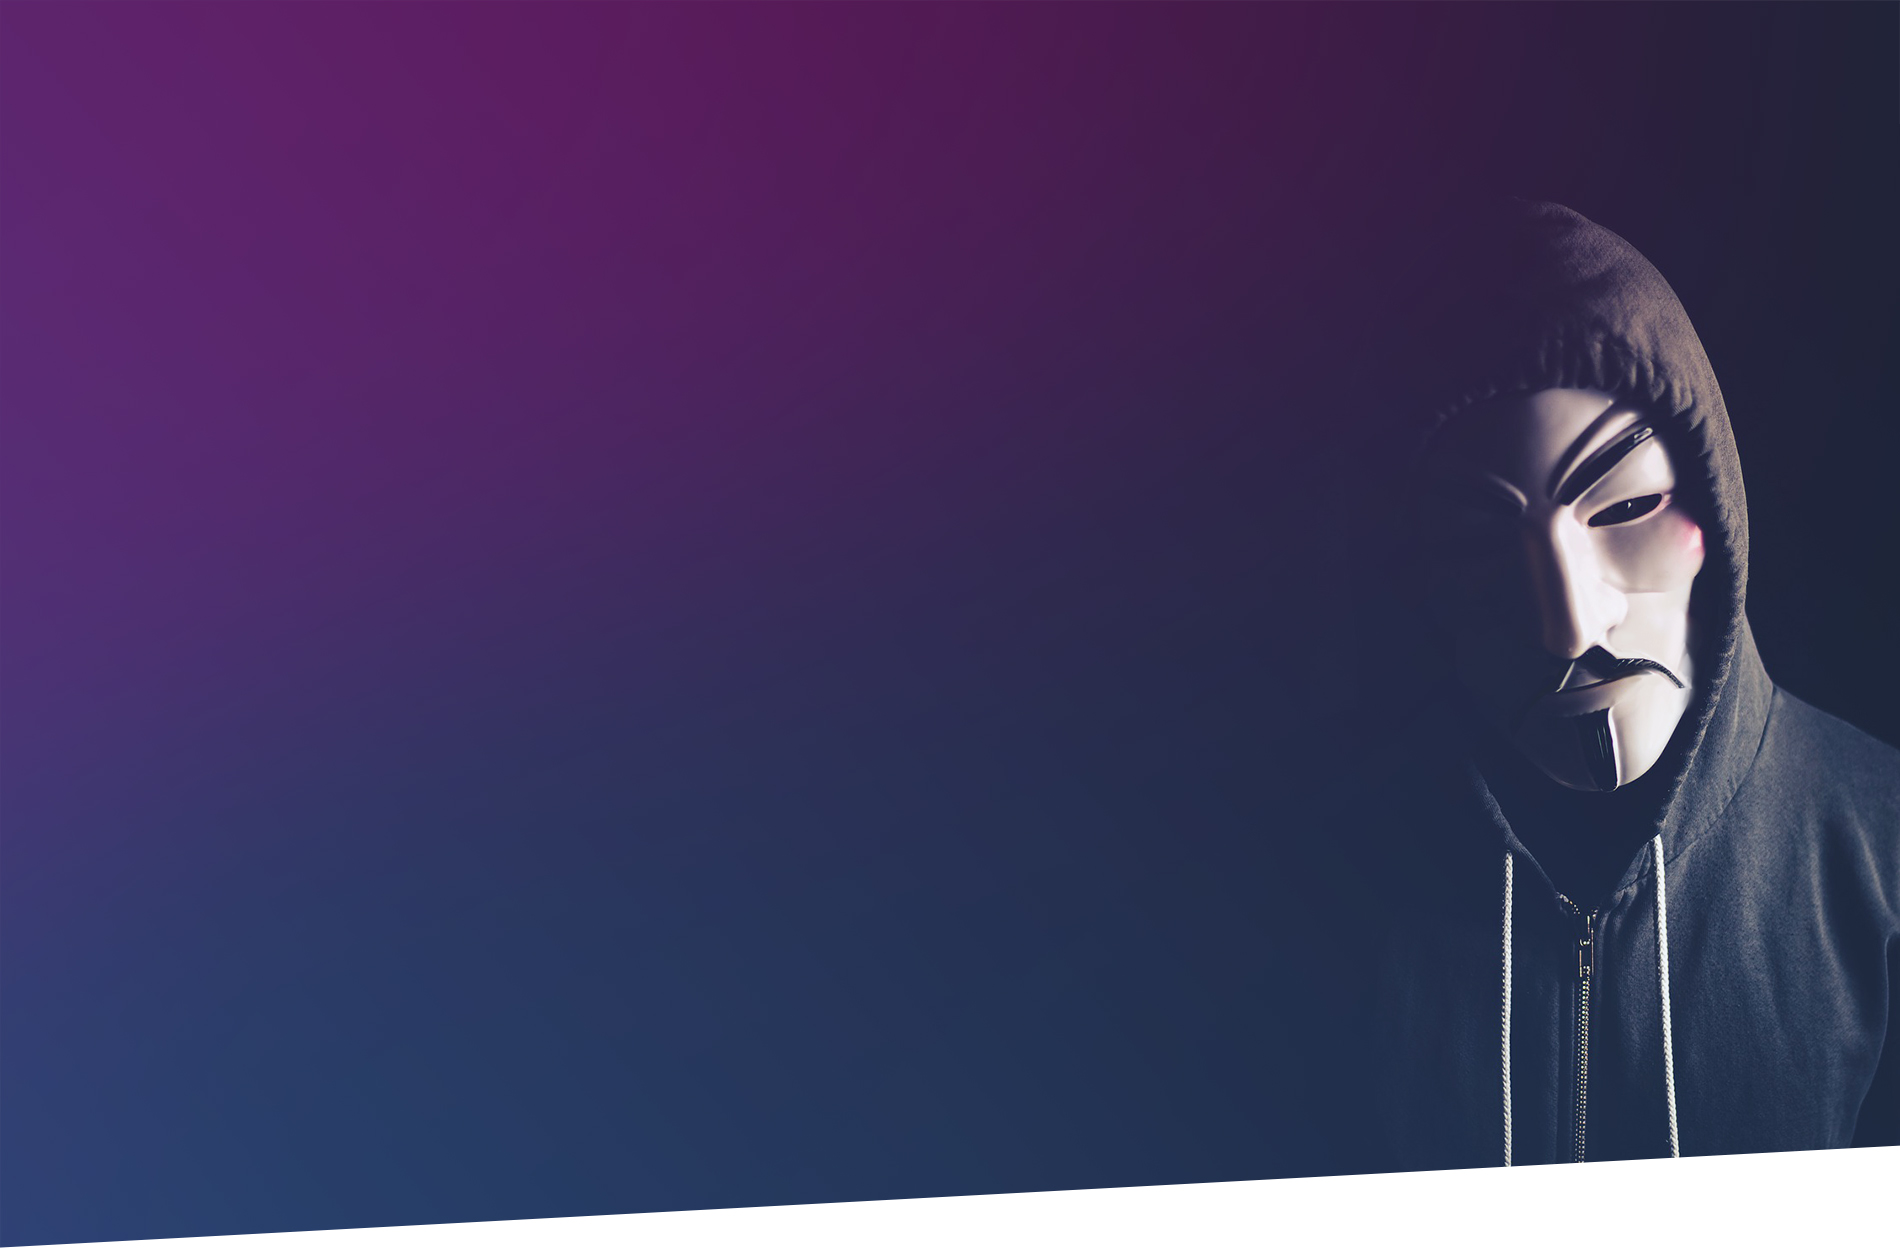
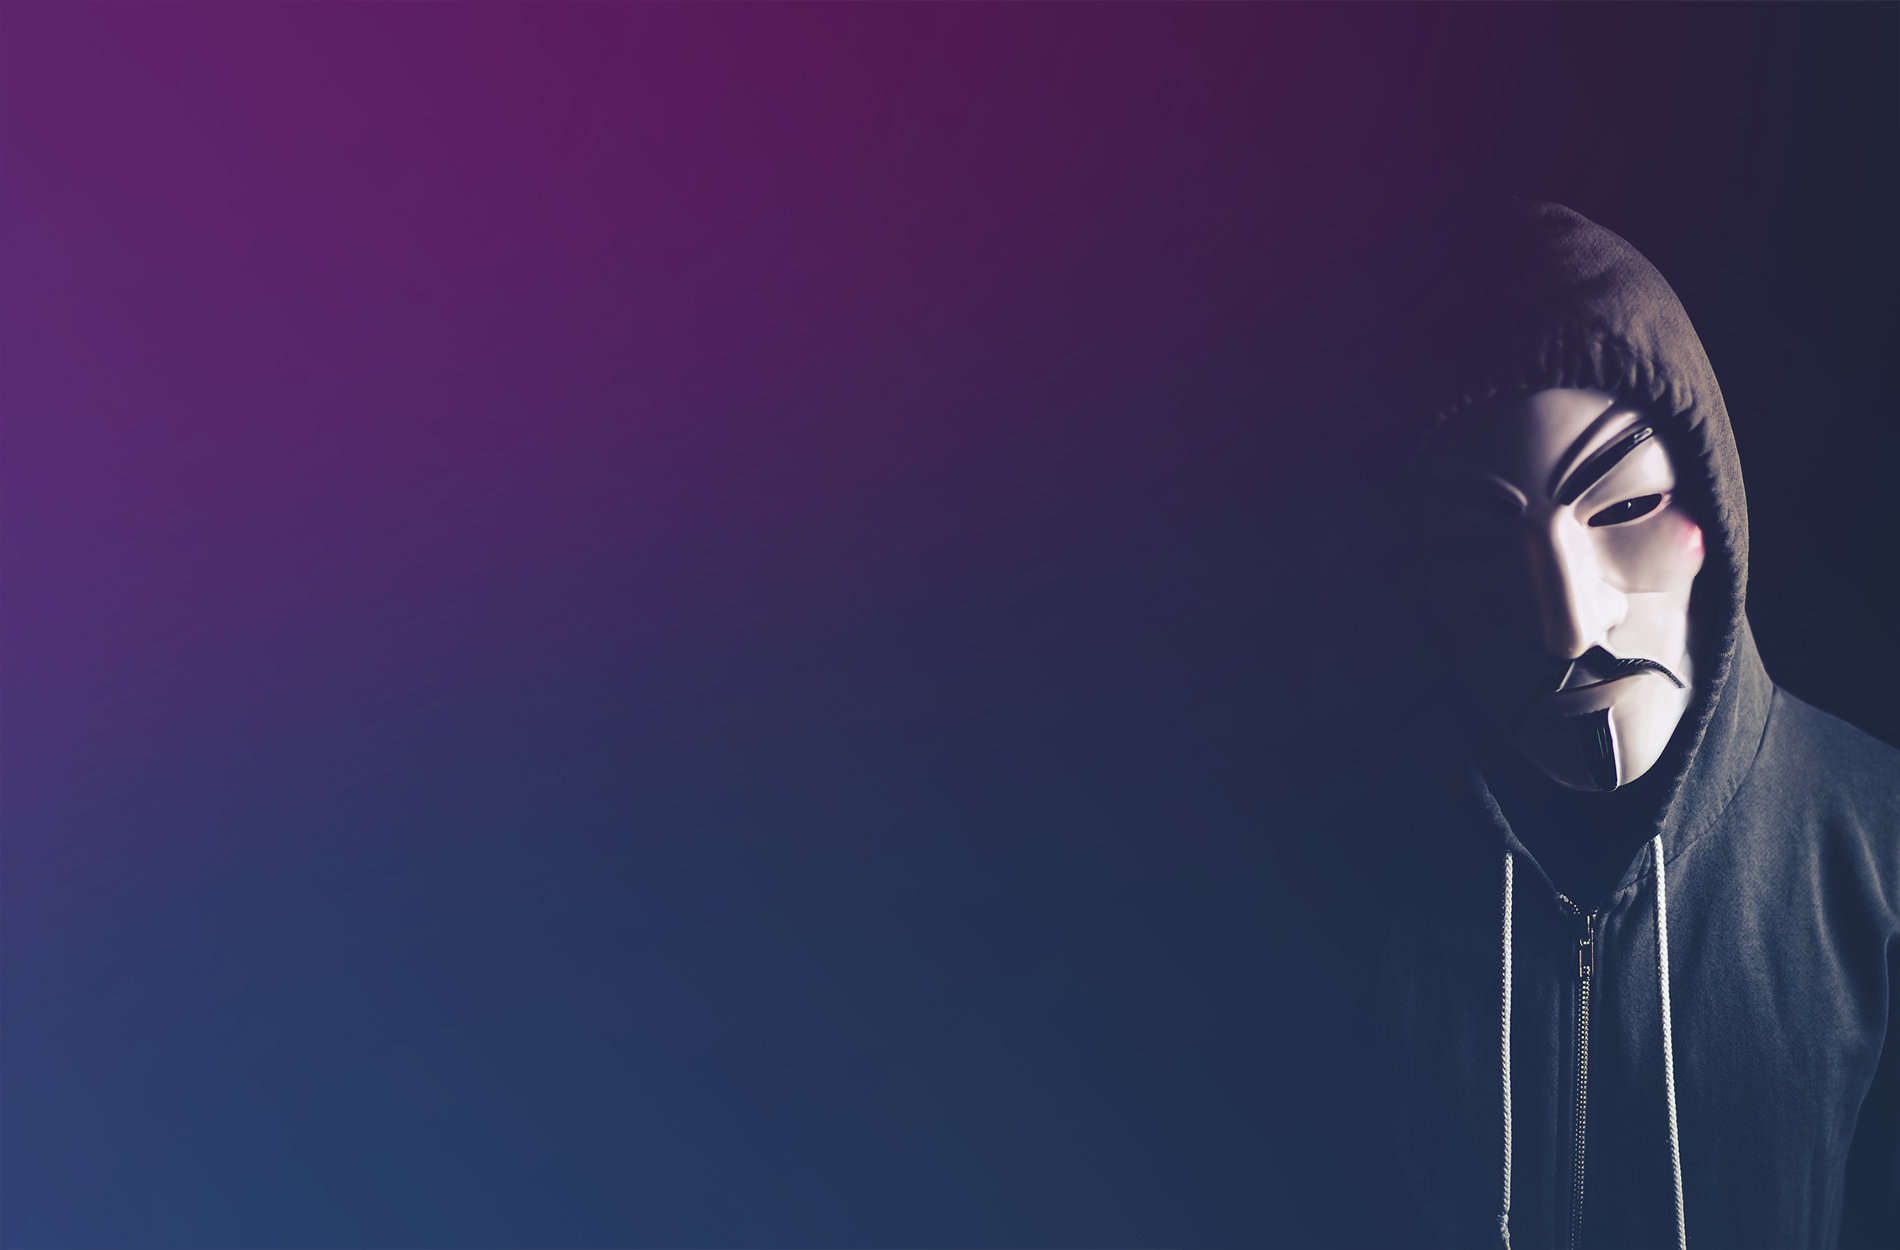
some more changes

Changed region(s): [[0.0, 0.9048, 1.0, 1.0]]

diff --git a/css/agency.css b/css/agency.css
@@ -198,35 +198,22 @@ h1, h2, h3, h4, h5, h6 {
     .navbar-custom.affix .navbar-brand {
       font-size: 1.5em; } }
 
-header {
 
-  background-repeat: no-repeat;
-  background-attachment: scroll;
-  background-position: center center;
-  -webkit-background-size: cover;
-  -moz-background-size: cover;
-  background-size: cover;
-  -o-background-size: cover;
-  text-align: center;
-  color: white; 
-  line-height: 0;
- }
 
 
   header .intro-text {
-    padding-top: 10px;
+    padding-top:0;
     padding-bottom: 0px; }
     header .intro-text .intro-lead-in {
       font-family: "Roboto Slab", "Helvetica Neue", Helvetica, Arial, sans-serif;
       color: #ffcc00;
       text-transform: uppercase;
           padding-bottom: 0px;
-      font-size: 30px;
+      font-size: 40px;
       font-weight: 700;
-      line-height: 35px;
+      line-height: 45px;
       margin-bottom: 0px; 
-      position: absolute;
-      top: 30vh !important;
+
     }
     header .intro-text .intro-heading {
       font-family: "Montserrat", "Helvetica Neue", Helvetica, Arial, sans-serif;
@@ -305,10 +292,10 @@ header {
 
 
 section {
-  padding: 100px 0; }
+  padding: 50px 0; }
   section h2.section-heading {
     font-size: 40px;
-    margin-top: 0;
+    margin-top: 00px;
     margin-bottom: 15px; }
   section h3.section-subheading {
     font-size: 20px;
@@ -321,7 +308,7 @@ section {
 
 @media (min-width: 768px) {
   section {
-    padding: 100px 0; } }
+    padding: 80px 0; } }
 
 .service-heading {
   margin: 15px 0;
@@ -779,8 +766,8 @@ body {
 */
 
 .tell-more {
-/*  position: absolute;
-  top: 65vh !important; */
+ position: relative;
+  top: 30vh; 
   left: 0;
   right: 0;
   margin-left: auto;
@@ -793,7 +780,7 @@ body {
   color: #3399ff;
   text-decoration: underline;
   text-transform: none;
-  padding-bottom: 100px; 
+  padding-bottom: 50px; 
   padding-left: 0px;  }
 
 .btn-link hover {
@@ -920,7 +907,7 @@ body {
     font-size: 15px;  }
   .tell-more {
     padding: 10px 20px;
-    top: 16%; } }
+    top: 5%; } }
 
 @media screen and (max-width: 767px) {
   header {
@@ -929,7 +916,7 @@ body {
 }
   .tell-more {
     padding: 10px 20px;
-    top: 2%; }
+  }
   .intro-heading {
     padding-top: 0px !important;
     font-weight: 700;
@@ -978,12 +965,9 @@ body {
     line-height: 40px !important;
     padding: 0 10px !important; }
   .tell-more {
-    top: 68vh !important;
-    left: 0;
-    right: 0;
     margin-left: auto;
     margin-right: auto;
-    width: 160px; }
+    width: 200px; }
   section h2.section-heading {
     font-size: 28px; } }
 
@@ -1010,26 +994,27 @@ header.masthead {
   text-align: left;
   color: #eee;
   background-image: url(../img/header-bg.jpg);
+
   background-repeat: no-repeat;
   background-attachment: scroll;
   background-position: right;
+
   background-size: cover;
   -o-background-size: cover;
   -webkit-background-size: cover;
-  -moz-background-size: cover;
-  line-height: 0;
-  position: relative;
-   padding-left: 30px;
-    padding-right: 30px;  }
+  -moz-background-size: cover; 
+}
 
     .container-header {
       position: relative;
-      top: 0;
-      left: 0;
+      vertical-align: middle;
+   /*  top: 0;
+      left: 0; */
       width: 100%;
-      height: 100%;
-      padding-left: 0px;
-      padding-right: 0px;
+      padding-left: 10vh;
+      padding-right: 10vh;
+      padding-top: 20vh;
+      padding-bottom: 50px;
     }
 
 
@@ -1048,6 +1033,7 @@ height: 100%;  }
 
   margin: 40px auto 20px;
   border: 7px solid rgba(0, 0, 0, 0.1);
+  max-width: 200px;
 }
 
 .team-member h4 {
@@ -1084,6 +1070,8 @@ background: #fff;
 border-radius: 10px;
 padding: 20px;
 position: relative;
+max-width: 400px;
+margin: auto;
 }
 .pricing-image {
   left: 0;

diff --git a/index.html b/index.html
@@ -87,9 +87,9 @@
                 <li>
                     <a class="page-scroll" href="#services">Services</a>
                 </li>
-                <li>
+          <!--      <li>
                     <a class="page-scroll" href="#team">Team</a>
-                </li>
+                </li>-->
                 <li>
                     <a class="page-scroll" href="#contact">Contact</a>
                 </li>
@@ -104,14 +104,17 @@
 
 
 <!-- Header -->
-<header class="masthead">
-
-
-        <div class="container-header">
+<script src="../particles.js"></script>
+<script src="js/app.js"></script>
+<header class="masthead" id="particles-js">
+        <script src="../particles.js"></script>
+        <script src="js/app.js"></script>
+        <div class="container container-header">
 
             <div class="row">
+             
                 <div class="col-sm-1"></div>
-                <div class="col-sm-8">
+                <div class="col-sm-10">
                     <div class="intro-text">
                         <div class="intro-lead-in">Give hackers no chance</div>
                         <div class="intro-heading">work with</div>
@@ -128,7 +131,7 @@
 
             <div class="row">
                 <div class="col-sm-1"></div>
-                <div class="col-sm-5">
+                <div class="col-sm-6">
                     <div class="intro-text">
                         <div class="intro-sentence">We enable secure execution of containers and programs using Intel&nbsp;SGX.</div>
                     </div>
@@ -139,20 +142,21 @@
                 <div class="col-sm-1"></div>
                 <div class="col-sm-8">
                     <div class="intro-text">
-                        <a class="btn btn-link  text-uppercase js-scroll-trigger" free-version href="#services">Try our free version > </a>
+                        <a class="btn btn-link text-uppercase js-scroll-trigger" free-version href="#services">Try our free version > </a>
                     </div>
                 </div>
             </div>
+            <a class="btn btn-primary btn-xl text-uppercase js-scroll-trigger tell-more" href="#nutshell">Tell Me More</a>
         </div>
-                <!-- scripts -->
+                <!-- 
                 <script src="js/lib/particles.min.js"></script>
                 <script src="js/app.js"></script>
-                            <!-- particles.js container -->
+                             particles.js container 
                 <div id="particles-js"></div>
-                            <!-- scripts -->
+                            scripts 
                             <script src="../particles.js"></script>
-                            <script src="js/app.js"></script>
-    <a class="btn btn-primary btn-xl text-uppercase js-scroll-trigger" tell-more href="#nutshell">Tell Me More</a>
+                            <script src="js/app.js"></script>scripts -->
+    
   </header>
 
 
@@ -567,7 +571,7 @@
         <div class="team-member">
           <img class="mx-auto rounded-circle" src="img/team/profile-wanted.svg" alt="">
           <h4>Wanted!</h4>
-          <a class="team-email"">youremail@scontain</a>
+          <a class="team-email">youremail@scontain</a>
           <p class="text-muted">Want to with us? Click <a class="team-email" href="mailto:info@scontain.com"">here</a>.</p>
         </div>
       </div>
